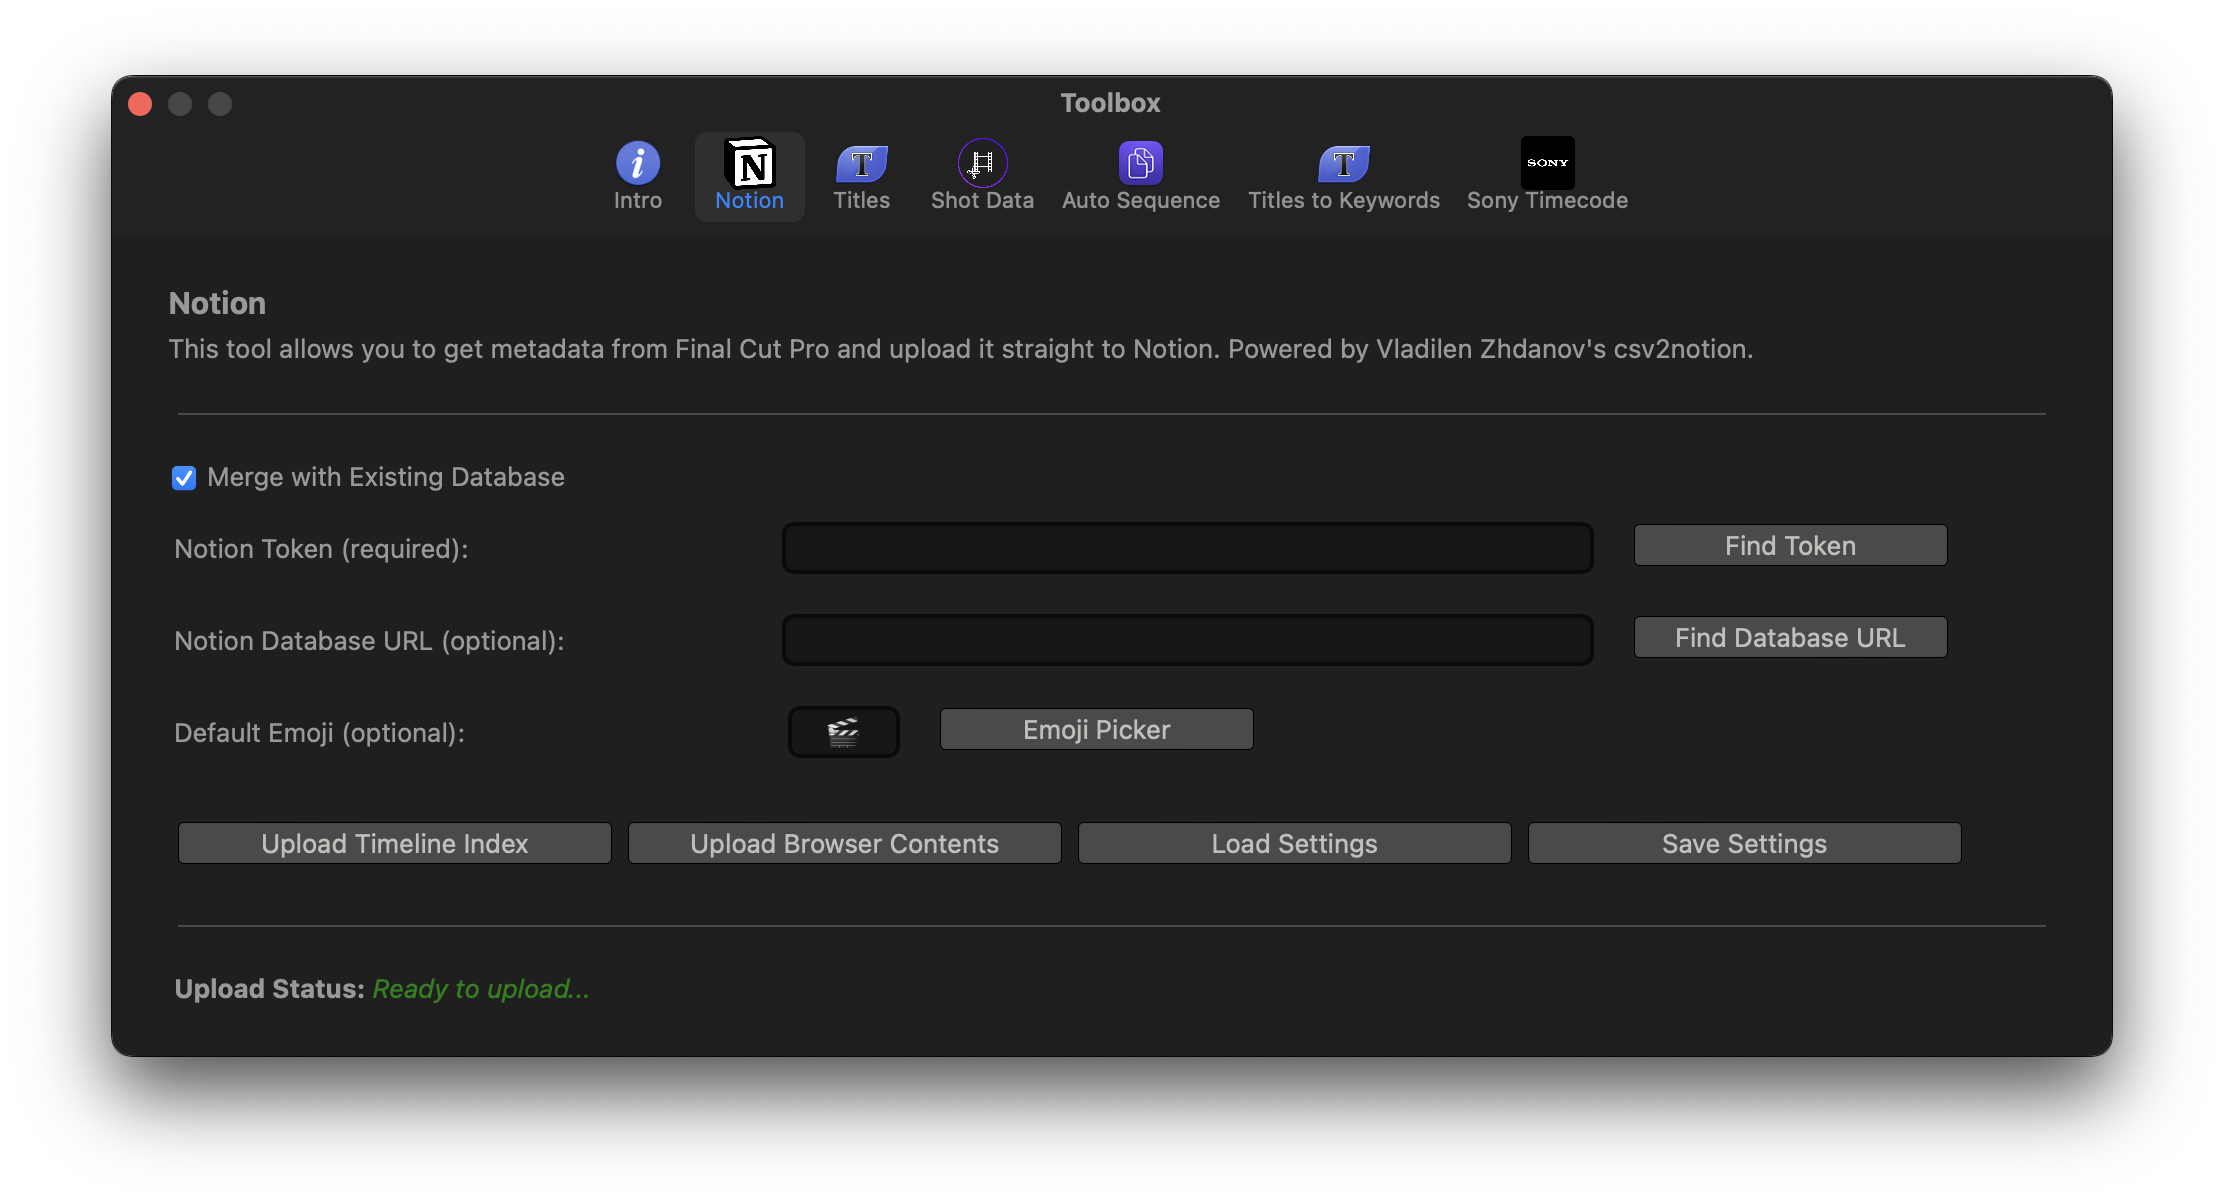
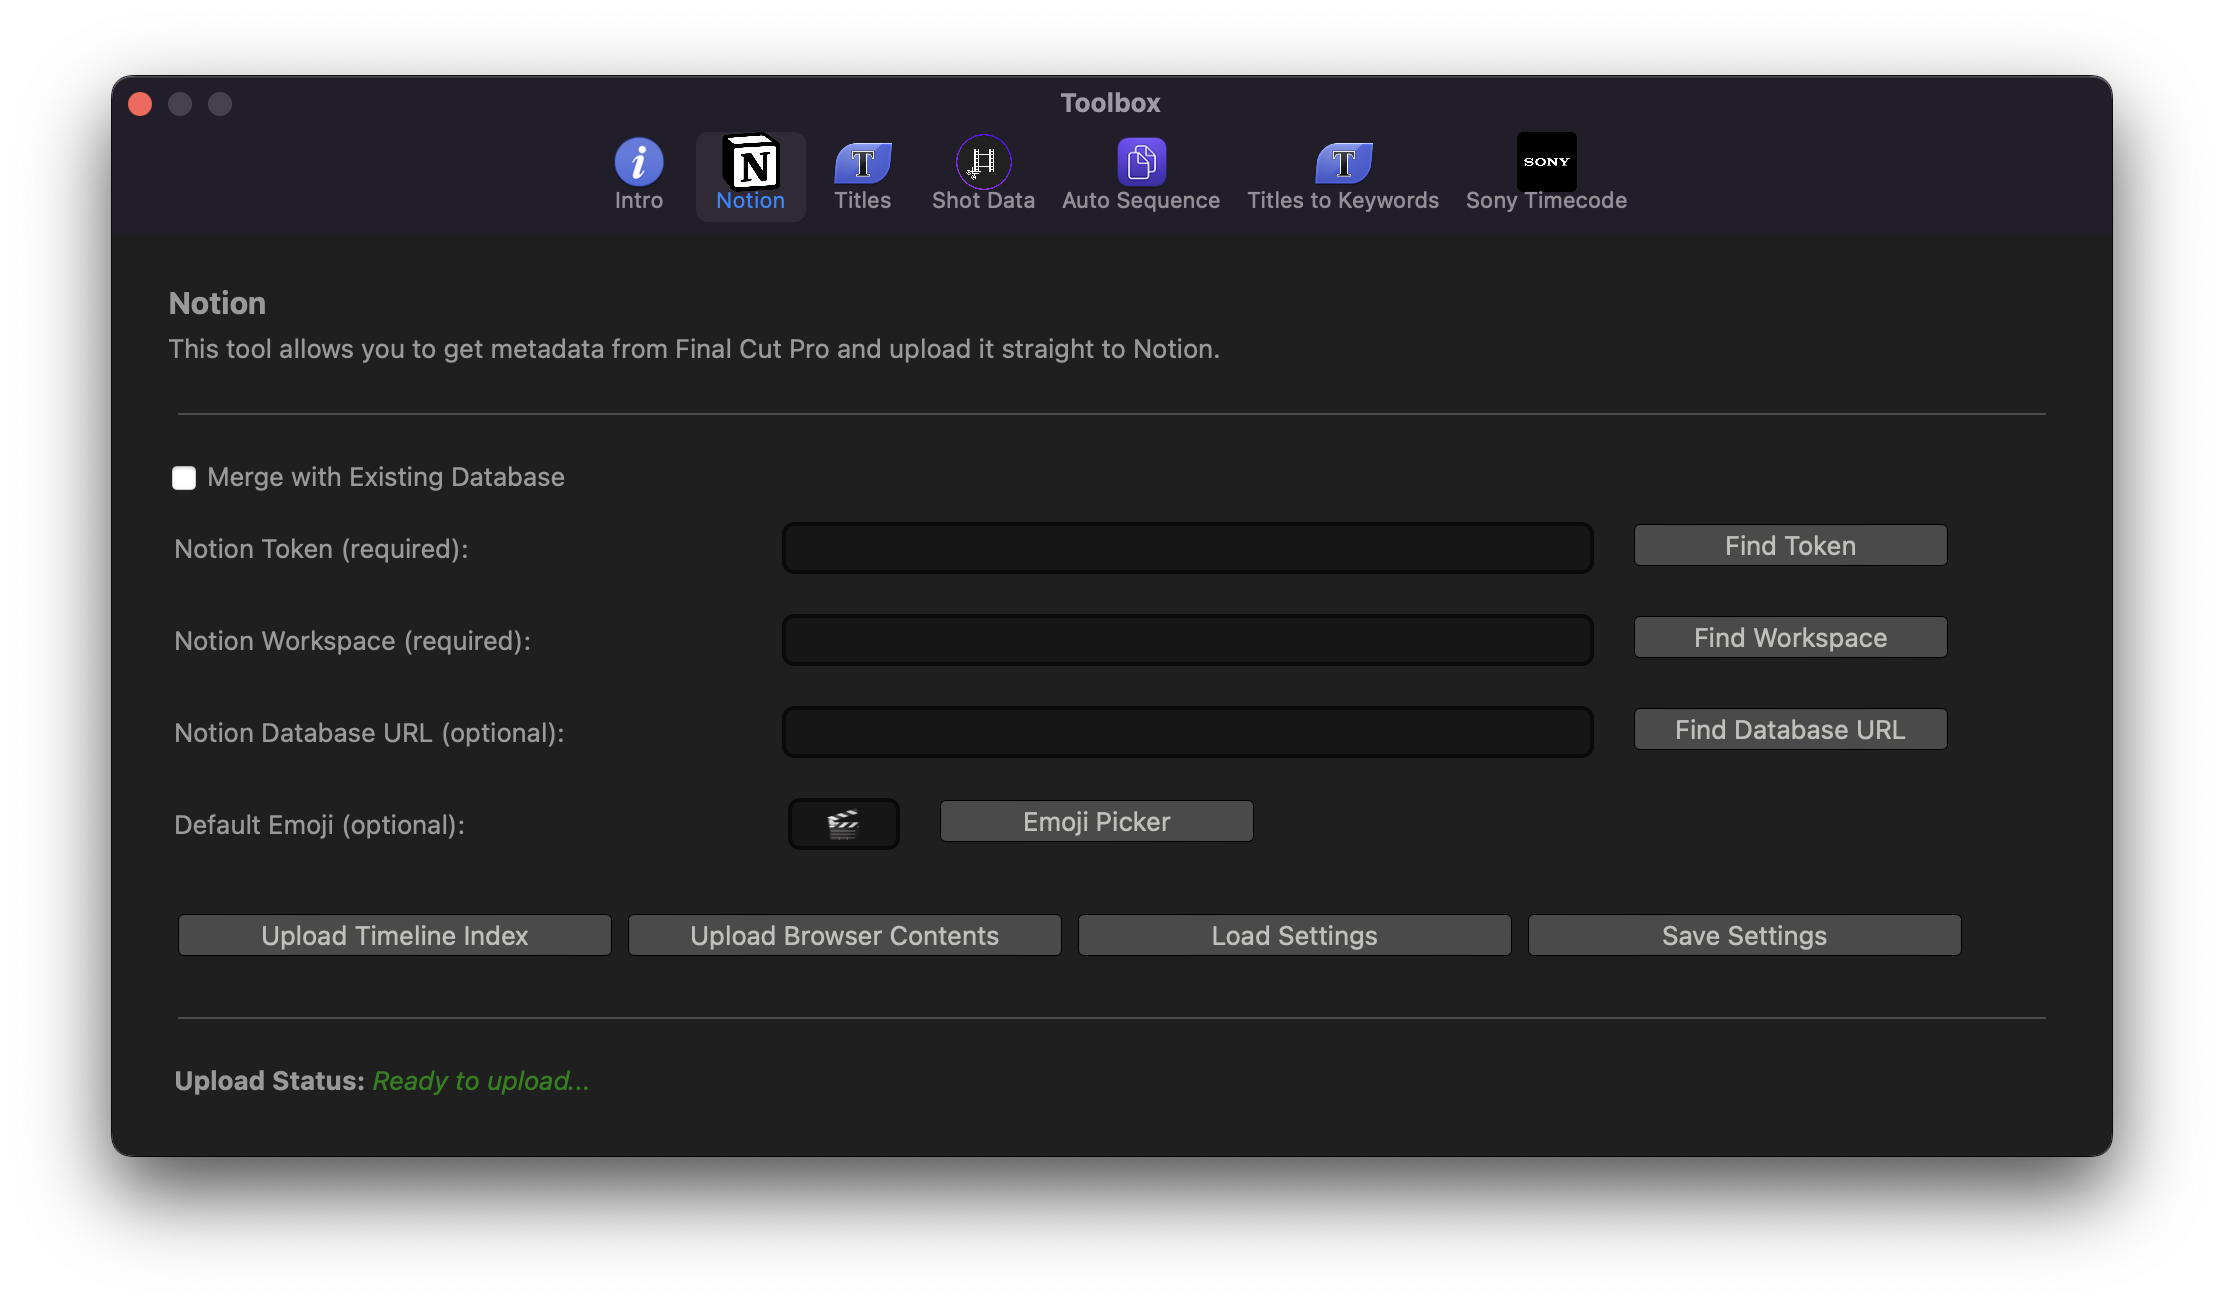
Update Image

diff --git a/docs/toolbox/notion.md b/docs/toolbox/notion.md
@@ -1,5 +1,5 @@
 # Notion
 
-This tool allows you to get metadata from Final Cut Pro and upload it straight to Notion. Powered by Vladilen Zhdanov's [csv2notion](https://github.com/vzhd1701/csv2notion){target="_blank"}.
+This tool allows you to get metadata from Final Cut Pro and upload it straight to Notion. Powered by [CSV2Notion Neo](https://github.com/TheAcharya/csv2notion-neo){target="_blank"}.
 
 ![](../static/toolbox-notion.png)
